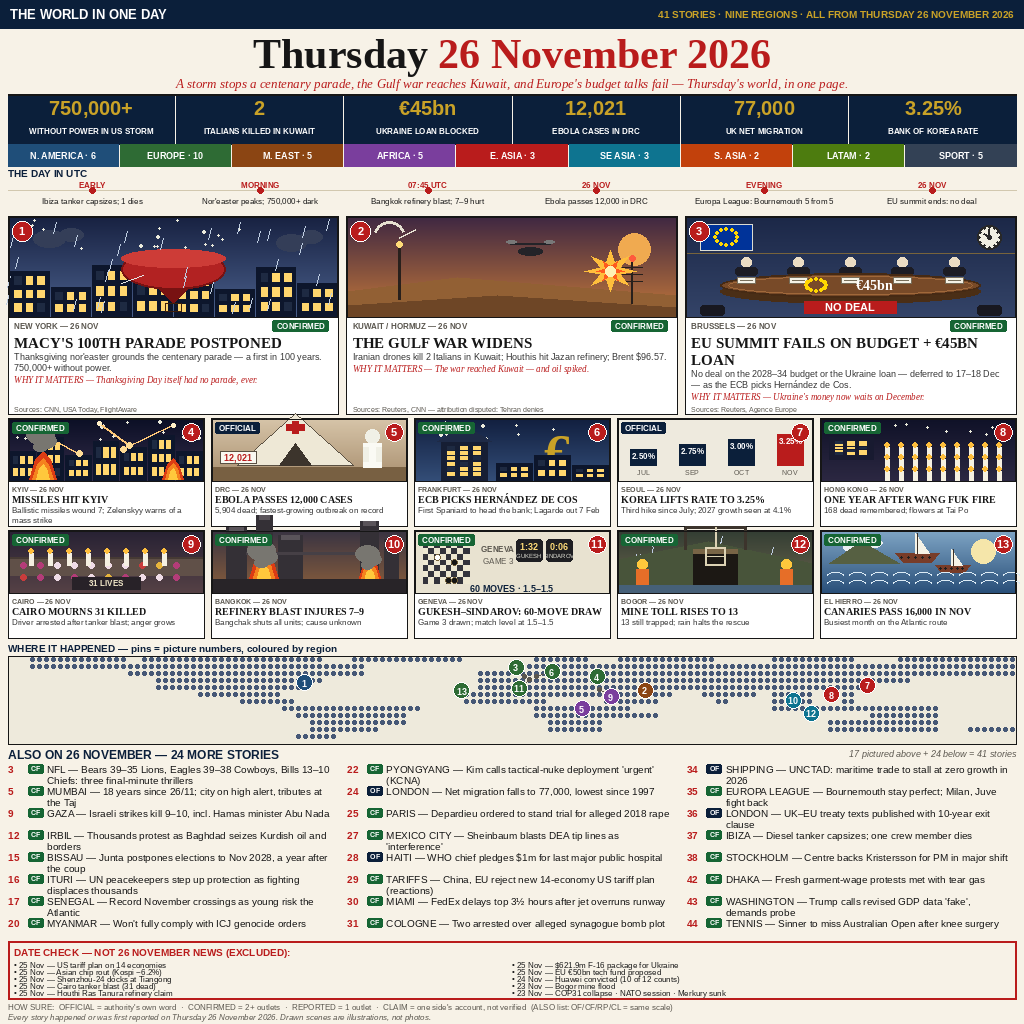
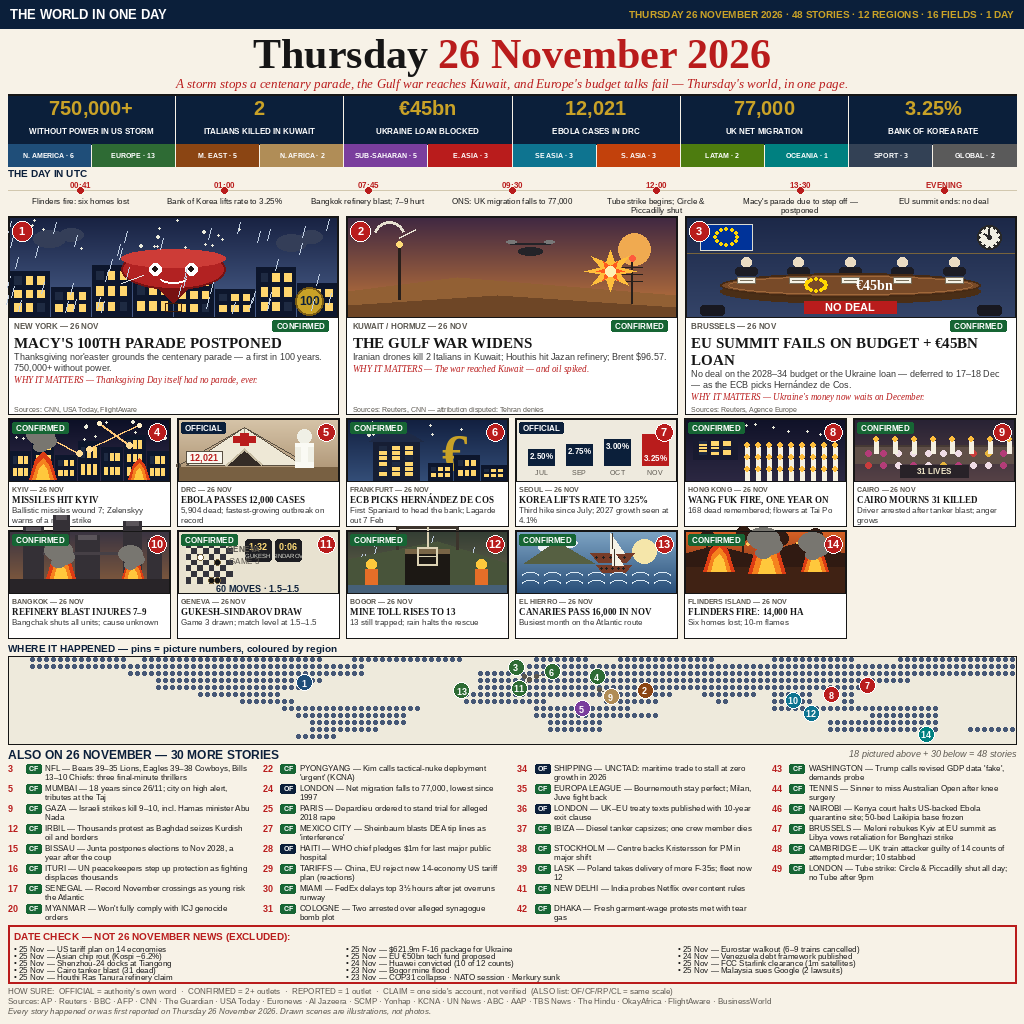
v3: 48 stories, 12 regions, 16 fields, 6 real UTC times, 14 pictured scenes

diff --git a/frontpage26_v2.py b/frontpage26_v2.py
@@ -1,6 +1,9 @@
 # frontpage26_v2.py — THE WORLD IN ONE DAY, Thursday 26 November 2026
 # Fresh rebuild from zero (v2). Written 100% fresh from dossier.md +
 # dossier-add.md + v2-spec.md. No previous builder was read.
+# v3 edits (2026-11-27): 48 stories / 12 regions / 16 fields, 6 real UTC
+# times, 14th pictured scene (Flinders), balloon face, Ebola tent fix,
+# 20-outlet footer, DATE CHECK 14 traps — per v3-spec.md. v2 layout kept.
 # Draws a dense illustrated broadsheet front page, 1024x1024, Pillow only.
 import math, random
 from PIL import Image, ImageDraw, ImageFont
@@ -161,7 +164,8 @@ def scene_macys(d, box):
                         (x1 - 46, y0 + 26, 15), (x1 - 26, y0 + 20, 11)]:
         d.ellipse([cx - r, cy - r * 0.55, cx + r, cy + r * 0.55], fill=(52, 62, 88))
     skyline(d, (x0, y1 - 52, x1, y1), [46, 30, 52, 38, 44, 28, 50, 34], base_y=y1)
-    # big red balloon
+    # big red balloon — now with a face (the most memorable element of
+    # the top-4 entry's balloon character) and a bigger "100" badge
     bx, by = (x0 + x1) // 2, y0 + 52
     d.ellipse([bx - 52, by - 20, bx + 52, by + 20], fill=(178, 34, 34),
               outline=(120, 18, 18), width=2)
@@ -169,7 +173,16 @@ def scene_macys(d, box):
     d.polygon([(bx - 14, by + 20), (bx + 14, by + 20), (bx, by + 34)], fill=(120, 18, 18))
     d.rectangle([bx - 8, by + 34, bx + 8, by + 42], outline=(60, 30, 10), width=1)
     d.line([(bx - 30, by + 6), (bx - 52, by + 14)], fill=(230, 230, 230), width=1)
-    rain(d, (x0, y0, x1, y1), 30, seed=5)
+    # face: two eyes + smile on the balloon
+    for ex in [bx - 18, bx + 18]:
+        d.ellipse([ex - 6, by - 6, ex + 6, by + 6], fill=(255, 255, 255))
+        d.ellipse([ex - 2.5, by - 2.5, ex + 2.5, by + 2.5], fill=(30, 20, 20))
+    d.arc([bx - 14, by + 2, bx + 14, by + 14], 20, 160, fill=(255, 255, 255), width=2)
+    # gold "100" badge, bottom-right of the art
+    d.ellipse([x1 - 42, y1 - 30, x1 - 14, y1 - 2], fill=GOLD,
+              outline=(120, 90, 20), width=2)
+    d.text((x1 - 28, y1 - 16), "100", font=SANS_B(12), fill=NAVY, anchor="mm")
+    rain(d, (x0, y0, x1, y1), 44, seed=5)
 
 def scene_kuwait(d, box):
     """Desert dusk, radar + antenna, drone, explosion starburst. Hero 2."""
@@ -303,15 +316,24 @@ def scene_ebola(d, box):
     x0, y0, x1, y1 = box
     vgrad(d, (x0, y0, x1, y1), (214, 196, 168), (168, 142, 110))
     d.rectangle([x0, y1 - 14, x1, y1], fill=(120, 96, 66))
-    # tent
+    # tent — low and wide so it reads as a tent, not a pyramid (v3 fix
+    # round 2: apex lowered from -52 to -38, base kept at +/-58)
     tx, ty = (x0 + x1) // 2 - 14, y1 - 16
-    d.polygon([(tx - 58, ty), (tx, ty - 52), (tx + 58, ty)], fill=(238, 232, 214),
+    d.polygon([(tx - 58, ty), (tx, ty - 38), (tx + 58, ty)], fill=(238, 232, 214),
               outline=(90, 80, 66))
-    d.polygon([(tx - 58, ty), (tx, ty - 52), (tx + 58, ty)], outline=(90, 80, 66))
-    d.polygon([(tx - 16, ty), (tx, ty - 22), (tx + 16, ty)], fill=(60, 52, 44))
-    # red cross on tent
-    d.rectangle([tx - 3, ty - 44, tx + 3, ty - 32], fill=RED)
-    d.rectangle([tx - 9, ty - 41, tx + 9, ty - 35], fill=RED)
+    d.polygon([(tx - 58, ty), (tx, ty - 38), (tx + 58, ty)], outline=(90, 80, 66))
+    d.line([(tx, ty - 38), (tx, ty - 32)], fill=(150, 140, 120), width=1)
+    d.line([(tx, ty - 38), (tx - 66, ty)], fill=(90, 80, 66), width=1)
+    d.line([(tx, ty - 38), (tx + 66, ty)], fill=(90, 80, 66), width=1)
+    d.ellipse([tx - 68, ty - 2, tx - 64, ty + 2], fill=(90, 80, 66))
+    d.ellipse([tx + 64, ty - 2, tx + 68, ty + 2], fill=(90, 80, 66))
+    # open flap: dark doorway with a lighter rolled edge
+    d.polygon([(tx - 18, ty), (tx, ty - 16), (tx + 18, ty)], fill=(52, 44, 38))
+    d.line([(tx - 18, ty), (tx, ty - 16)], fill=(200, 190, 165), width=2)
+    d.line([(tx + 18, ty), (tx, ty - 16)], fill=(200, 190, 165), width=2)
+    # bigger red cross on the tent face, above the doorway
+    d.rectangle([tx - 4, ty - 32, tx + 4, ty - 20], fill=RED)
+    d.rectangle([tx - 11, ty - 29, tx + 11, ty - 23], fill=RED)
     # health worker (PPE)
     wx = x1 - 34
     d.ellipse([wx - 7, y1 - 52, wx + 7, y1 - 38], fill=(240, 240, 230))  # hood
@@ -353,8 +375,10 @@ def scene_korea(d, box):
     for (lab, v, h) in vals:
         col = RED if lab == "NOV" else NAVY
         d.rectangle([x, base - h, x + bw, base], fill=col)
-        # value label INSIDE the bar (white) so it can't hit the badge
-        d.text((x + bw / 2, base - h + 2), f"{v:.2f}%", font=SANS_B(8),
+        # value label INSIDE the bar (white) so it can't hit the badge;
+        # NOV's label sits lower — the top of its bar is under the scene badge
+        ly = base - 12 if lab == "NOV" else base - h + 2
+        d.text((x + bw / 2, ly), f"{v:.2f}%", font=SANS_B(8),
                fill=(255, 255, 255), anchor="ma")
         d.text((x + bw / 2, base + 3), lab, font=SANS(7), fill=GREY, anchor="ma")
         x += bw + gap
@@ -367,11 +391,12 @@ def scene_hk(d, box):
     # building silhouette
     d.rectangle([x0 + 8, y0 + 18, x0 + 52, y1 - 22], fill=(24, 26, 48))
     windows(d, x0 + 12, y0 + 22, 36, y1 - y0 - 48, 3, 5)
-    # candle rows (caption below already says 168 dead)
+    # candle rows (caption below already says 168 dead) — tighter spacing
+    # for the narrower v3 grid cell
     for r in range(3):
         yy = y1 - 34 + r * 12
         for c in range(9):
-            cx = x0 + 66 + c * 14
+            cx = x0 + 62 + c * 11
             d.rectangle([cx - 2, yy, cx + 2, yy + 9], fill=(245, 240, 225))
             d.ellipse([cx - 2.5, yy - 5, cx + 2.5, yy], fill=(255, 190, 60))
 
@@ -383,12 +408,12 @@ def scene_cairo(d, box):
     # wall
     d.rectangle([x0, y0 + 26, x1, y1 - 18], fill=(96, 80, 72))
     d.line([(x0, y0 + 26), (x1, y0 + 26)], fill=(70, 58, 52), width=2)
-    # flowers (small coloured dots in rows)
+    # flowers (small coloured dots in rows) — tighter spacing for v3 grid
     rnd = random.Random(99)
     for r in range(2):
         yy = y0 + 34 + r * 12
         for c in range(10):
-            cx = x0 + 14 + c * 17
+            cx = x0 + 14 + c * 15
             col = rnd.choice([(200, 60, 60), (240, 220, 230), (230, 180, 60),
                               (180, 60, 120)])
             d.ellipse([cx - 3, yy - 3, cx + 3, yy + 3], fill=col)
@@ -510,6 +535,33 @@ def scene_canary(d, box):
         for xx in range(x0 + 6, x1 - 10, 22):
             d.arc([xx, yy - 3, xx + 16, yy + 3], 180, 360, fill=(220, 235, 245), width=1)
 
+def scene_flinders(d, box):
+    """Landscape wildfire on Flinders Island: orange sky, tree line,
+    flame clusters + smoke columns. Scene 14 (v3)."""
+    x0, y0, x1, y1 = box
+    vgrad(d, (x0, y0, x1, y1), (214, 96, 36), (96, 34, 22))
+    # ember dots in the sky
+    rnd = random.Random(55)
+    for _ in range(10):
+        ex = rnd.uniform(x0 + 6, x1 - 6)
+        ey = rnd.uniform(y0 + 4, y0 + 26)
+        d.ellipse([ex - 1.5, ey - 1.5, ex + 1.5, ey + 1.5], fill=(255, 200, 90))
+    # dark tree line (eucalyptus silhouettes)
+    d.polygon([(x0, y1 - 26), (x0, y1 - 40), (x0 + 30, y1 - 48),
+               (x0 + 70, y1 - 38), (x0 + 110, y1 - 50), (x1, y1 - 40),
+               (x1, y1 - 26)], fill=(48, 26, 18))
+    for (tx, th) in [(x0 + 22, 12), (x0 + 58, 16), (x0 + 96, 11), (x1 - 30, 14)]:
+        d.line([(tx, y1 - 40), (tx, y1 - 40 - th)], fill=(48, 26, 18), width=2)
+        d.ellipse([tx - 7, y1 - 51 - th, tx + 7, y1 - 37 - th], fill=(48, 26, 18))
+    # ground + flame clusters
+    d.rectangle([x0, y1 - 26, x1, y1], fill=(64, 34, 20))
+    fire(d, x0 + 34, y1 - 22, 0.9)
+    fire(d, x0 + 82, y1 - 20, 1.1)
+    fire(d, x1 - 30, y1 - 22, 0.8)
+    # smoke columns kept short so they stay inside the art box
+    smoke(d, x0 + 82, y1 - 40, 0.8, 3)
+    smoke(d, x1 - 30, y1 - 38, 0.7, 3)
+
 # ---------------------------------------------------------------- map
 # Hand-built land bitmap: 24 rows, lat 84..-54 in 6 deg steps; each row is
 # a list of (first_col, last_col) land spans, cols = 5 deg lon steps
@@ -542,17 +594,18 @@ LAND_BITMAP = [
 ]
 REGION_COL = {
     "NA": (31, 78, 121), "EU": (46, 107, 52), "ME": (139, 69, 19),
-    "AF": (122, 62, 157), "EA": (185, 28, 28), "SEA": (14, 116, 144),
-    "SA": (194, 65, 12), "LAT": (77, 124, 15), "SP": (51, 65, 85),
+    "AF": (122, 62, 157), "NAF": (176, 141, 87), "EA": (185, 28, 28),
+    "SEA": (14, 116, 144), "SA": (194, 65, 12), "LAT": (77, 124, 15),
+    "SP": (51, 65, 85), "OC": (0, 128, 128), "GL": (90, 90, 90),
 }
 PINS = [  # (lon, lat, num, region, dx, dy) — dx/dy = display offset for legibility
     (-74, 40.7, 1, "NA", 0, 0), (47.5, 29.3, 2, "ME", 0, 0),
     (4.35, 50.85, 3, "EU", -8, -9), (30.5, 50.45, 4, "EU", 0, 0),
     (25, 0, 5, "AF", 0, 0), (8.68, 50.11, 6, "EU", 16, -5),
     (127, 37.5, 7, "EA", 0, 0), (114.2, 22.3, 8, "EA", 0, 0),
-    (31.2, 30.05, 9, "AF", 12, 7), (100.5, 13.75, 10, "SEA", 0, 0),
+    (31.2, 30.05, 9, "NAF", 12, 7), (100.5, 13.75, 10, "SEA", 0, 0),
     (6.14, 46.2, 11, "EU", -10, 9), (106.8, -6.6, 12, "SEA", 0, 0),
-    (-18, 28.3, 13, "EU", 0, 0),
+    (-18, 28.3, 13, "EU", 0, 0), (148, -40, 14, "OC", 0, 0),
 ]
 
 def draw_map(d, box):
@@ -618,7 +671,7 @@ SCENES = [
          head="KOREA LIFTS RATE TO 3.25%",
          sub="Third hike since July; 2027 growth seen at 4.1%"),
     dict(num=8, art=scene_hk, date="HONG KONG — 26 NOV", chip="CF",
-         head="ONE YEAR AFTER WANG FUK FIRE",
+         head="WANG FUK FIRE, ONE YEAR ON",
          sub="168 dead remembered; flowers at Tai Po"),
     dict(num=9, art=scene_cairo, date="CAIRO — 26 NOV", chip="CF",
          head="CAIRO MOURNS 31 KILLED",
@@ -627,7 +680,7 @@ SCENES = [
          head="REFINERY BLAST INJURES 7–9",
          sub="Bangchak shuts all units; cause unknown"),
     dict(num=11, art=scene_chess, date="GENEVA — 26 NOV", chip="CF",
-         head="GUKESH–SINDAROV: 60-MOVE DRAW",
+         head="GUKESH–SINDAROV DRAW",
          sub="Game 3 drawn; match level at 1.5–1.5"),
     dict(num=12, art=scene_bogor, date="BOGOR — 26 NOV", chip="CF",
          head="MINE TOLL RISES TO 13",
@@ -635,6 +688,9 @@ SCENES = [
     dict(num=13, art=scene_canary, date="EL HIERRO — 26 NOV", chip="CF",
          head="CANARIES PASS 16,000 IN NOV",
          sub="Busiest month on the Atlantic route"),
+    dict(num=14, art=scene_flinders, date="FLINDERS ISLAND — 26 NOV", chip="CF",
+         head="FLINDERS FIRE: 14,000 HA",
+         sub="Six homes lost; 10-m flames"),
 ]
 ALSO = [
     (3, "CF", "NFL — Bears 39–35 Lions, Eagles 39–38 Cowboys, Bills 13–10 Chiefs: three final-minute thrillers"),
@@ -658,9 +714,15 @@ ALSO = [
     (36, "OF", "LONDON — UK–EU treaty texts published with 10-year exit clause"),
     (37, "CF", "IBIZA — Diesel tanker capsizes; one crew member dies"),
     (38, "CF", "STOCKHOLM — Centre backs Kristersson for PM in major shift"),
+    (39, "CF", "LASK — Poland takes delivery of more F-35s; fleet now 12"),
+    (41, "CF", "NEW DELHI — India probes Netflix over content rules"),
     (42, "CF", "DHAKA — Fresh garment-wage protests met with tear gas"),
     (43, "CF", "WASHINGTON — Trump calls revised GDP data 'fake', demands probe"),
     (44, "CF", "TENNIS — Sinner to miss Australian Open after knee surgery"),
+    (46, "CF", "NAIROBI — Kenya court halts US-backed Ebola quarantine site; 50-bed Laikipia base frozen"),
+    (47, "CF", "BRUSSELS — Meloni rebukes Kyiv at EU summit as Libya vows retaliation for Benghazi strike"),
+    (48, "CF", "CAMBRIDGE — UK train attacker guilty of 14 counts of attempted murder; 10 stabbed"),
+    (49, "CF", "LONDON — Tube strike: Circle & Piccadilly shut all day; no Tube after 9pm"),
 ]
 DATECHECK = [
     "25 Nov — US tariff plan on 14 economies",
@@ -673,6 +735,10 @@ DATECHECK = [
     "24 Nov — Huawei convicted (10 of 12 counts)",
     "23 Nov — Bogor mine flood",
     "23 Nov — COP31 collapse · NATO session · Merkury sunk",
+    "25 Nov — Eurostar walkout (6–9 trains cancelled)",
+    "24 Nov — Venezuela debt framework published",
+    "25 Nov — FCC Starlink clearance (1m satellites)",
+    "25 Nov — Malaysia sues Google (2 lawsuits)",
 ]
 NUMBERS = [
     ("750,000+", "WITHOUT POWER IN US STORM"),
@@ -683,19 +749,21 @@ NUMBERS = [
     ("3.25%", "BANK OF KOREA RATE"),
 ]
 REGIONS = [
-    ("N. AMERICA", 6, (31, 78, 121)), ("EUROPE", 10, (46, 107, 52)),
-    ("M. EAST", 5, (139, 69, 19)), ("AFRICA", 5, (122, 62, 157)),
-    ("E. ASIA", 3, (185, 28, 28)), ("SE ASIA", 3, (14, 116, 144)),
-    ("S. ASIA", 2, (194, 65, 12)), ("LATAM", 2, (77, 124, 15)),
-    ("SPORT", 5, (51, 65, 85)),
+    ("N. AMERICA", 6, (31, 78, 121)), ("EUROPE", 13, (46, 107, 52)),
+    ("M. EAST", 5, (139, 69, 19)), ("N. AFRICA", 2, (176, 141, 87)),
+    ("SUB-SAHARAN", 5, (122, 62, 157)), ("E. ASIA", 3, (185, 28, 28)),
+    ("SE ASIA", 3, (14, 116, 144)), ("S. ASIA", 3, (194, 65, 12)),
+    ("LATAM", 2, (77, 124, 15)), ("OCEANIA", 1, (0, 128, 128)),
+    ("SPORT", 3, (51, 65, 85)), ("GLOBAL", 2, (90, 90, 90)),
 ]
 UTC_EVENTS = [
-    ("EARLY", "Ibiza tanker capsizes; 1 dies"),
-    ("MORNING", "Nor'easter peaks; 750,000+ dark"),
-    ("07:45 UTC", "Bangkok refinery blast; 7–9 hurt"),
-    ("26 NOV", "Ebola passes 12,000 in DRC"),
-    ("EVENING", "Europa League: Bournemouth 5 from 5"),
-    ("26 NOV", "EU summit ends: no deal"),
+    ("00:41", "Flinders fire: six homes lost"),
+    ("01:00", "Bank of Korea lifts rate to 3.25%"),
+    ("07:45", "Bangkok refinery blast; 7–9 hurt"),
+    ("09:30", "ONS: UK migration falls to 77,000"),
+    ("12:00", "Tube strike begins; Circle & Piccadilly shut"),
+    ("13:30", "Macy's parade due to step off — postponed"),
+    ("EVENING", "EU summit ends: no deal"),
 ]
 
 def build():
@@ -706,7 +774,7 @@ def build():
     d.rectangle([0, y, W, y + 28], fill=NAVY)
     d.text((10, y + 14), "THE WORLD IN ONE DAY", font=SANS_B(13),
            fill=(255, 255, 255), anchor="lm")
-    rt = "41 STORIES · NINE REGIONS · ALL FROM THURSDAY 26 NOVEMBER 2026"
+    rt = "THURSDAY 26 NOVEMBER 2026 · 48 STORIES · 12 REGIONS · 16 FIELDS · 1 DAY"
     d.text((W - 10, y + 14), rt, font=SANS_B(10), fill=GOLD, anchor="rm")
     y += 28
     # --- masthead (centred two-tone date)
@@ -731,18 +799,18 @@ def build():
             d.text((x + cw / 2, y + 30 + j * 9), ln, font=SANS_B(8),
                    fill=(255, 255, 255), anchor="ma")
     y += 48
-    # --- region bar
-    rw = (W - 16 - 8 * 2) / 9
+    # --- region bar (12 chips, v3)
+    rw = (W - 16 - 11 * 2) / 12
     for i, (name, n, col) in enumerate(REGIONS):
         x = 8 + i * (rw + 2)
         d.rectangle([x, y, x + rw, y + 22], fill=col)
-        d.text((x + rw / 2, y + 11), f"{name} · {n}", font=SANS_B(9),
+        d.text((x + rw / 2, y + 11), f"{name} · {n}", font=SANS_B(7),
                fill=(255, 255, 255), anchor="mm")
     y += 22
     # --- UTC strip (header row + timeline row)
     d.text((8, y + 1), "THE DAY IN UTC", font=SANS_B(10), fill=NAVY, anchor="la")
     d.line([(8, y + 24), (W - 8, y + 24)], fill=CREAM_LINE, width=1)
-    ew = (W - 16) / 6
+    ew = (W - 16) / 7
     for i, (t, ev) in enumerate(UTC_EVENTS):
         cx = 8 + ew * i + ew / 2
         d.ellipse([cx - 3, y + 21, cx + 3, y + 27], fill=RED)
@@ -776,10 +844,10 @@ def build():
             ty += 11
         d.text((x + 6, hy + 198 - 9), h["src"], font=SANS(7), fill=GREY, anchor="la")
     y = hy + 198 + 4
-    # --- scenes grid 5x2
-    sw, sh = 196, 108
+    # --- scenes grid 6x2 (v3: 11 scenes)
+    sw, sh = 162, 108
     for idx, s in enumerate(SCENES):
-        r, c = divmod(idx, 5)
+        r, c = divmod(idx, 6)
         x = 8 + c * (sw + 7)
         sy = y + r * (sh + 4)
         d.rectangle([x, sy, x + sw, sy + sh], fill=(255, 255, 255),
@@ -791,8 +859,8 @@ def build():
         ty = sy + 67
         d.text((x + 4, ty), s["date"], font=SANS_B(7), fill=GREY, anchor="la")
         ty += 9
-        for ln in wrap(d, s["head"], SERIF_B(10), sw - 8)[:1]:
-            d.text((x + 4, ty), ln, font=SERIF_B(10), fill=INK, anchor="la")
+        for ln in wrap(d, s["head"], SERIF_B(9), sw - 8)[:1]:
+            d.text((x + 4, ty), ln, font=SERIF_B(9), fill=INK, anchor="la")
             ty += 11
         for ln in wrap(d, s["sub"], SANS(8), sw - 8)[:2]:
             d.text((x + 4, ty), ln, font=SANS(8), fill=(50, 50, 50), anchor="la")
@@ -805,34 +873,37 @@ def build():
     draw_map(d, (8, y, W - 8, y + 88))
     y += 88 + 4
     # --- ALSO list
-    d.text((8, y), "ALSO ON 26 NOVEMBER — 24 MORE STORIES",
+    d.text((8, y), "ALSO ON 26 NOVEMBER — 30 MORE STORIES",
            font=SANS_B(12), fill=NAVY, anchor="la")
-    d.text((W - 8, y), "17 pictured above + 24 below = 41 stories",
+    d.text((W - 8, y), "18 pictured above + 30 below = 48 stories",
            font=SANS_I(9), fill=GREY, anchor="ra")
     y += 15
-    colw = (W - 16 - 2 * 10) / 3
+    colw = (W - 16 - 3 * 10) / 4
     for i, (n, code, text) in enumerate(ALSO):
         col, row = divmod(i, 8)
         x = 8 + col * (colw + 10)
-        ry = y + row * 22
-        d.text((x, ry), str(n), font=SANS_B(10), fill=RED, anchor="la")
-        mw = minichip(d, x + 20, ry + 1, code)
-        tx = x + 20 + mw + 4
-        lines = wrap(d, text, SANS(10), colw - (tx - x) - 2)[:2]
+        ry = y + row * 20
+        d.text((x, ry), str(n), font=SANS_B(9), fill=RED, anchor="la")
+        mw = minichip(d, x + 18, ry + 1, code)
+        tx = x + 18 + mw + 4
+        lines = wrap(d, text, SANS(8), colw - (tx - x) - 2)[:2]
         for j, ln in enumerate(lines):
-            d.text((tx, ry + j * 11), ln, font=SANS(10), fill=INK, anchor="la")
-    y += 8 * 22 + 2
+            d.text((tx, ry + j * 9.5), ln, font=SANS(8), fill=INK, anchor="la")
+    y += 8 * 20 + 2
     # --- date check
     d.rectangle([8, y, W - 8, y + 58], outline=RED, width=2)
     d.text((14, y + 5), "DATE CHECK — NOT 26 NOVEMBER NEWS (EXCLUDED):",
            font=SANS_B(10), fill=RED, anchor="la")
     for i, item in enumerate(DATECHECK):
         col, row = divmod(i, 5)
-        x = 14 + col * ((W - 28) / 2)
+        x = 14 + col * ((W - 28) / 3)
         d.text((x, y + 19 + row * 7), "• " + item, font=SANS(8), fill=INK, anchor="la")
     y += 58 + 3
     # --- footer
     d.text((8, y), "HOW SURE:  OFFICIAL = authority's own word  ·  CONFIRMED = 2+ outlets  ·  REPORTED = 1 outlet  ·  CLAIM = one side's account, not verified  (ALSO list: OF/CF/RP/CL = same scale)",
+           font=SANS(8), fill=GREY, anchor="la")
+    y += 10
+    d.text((8, y), "Sources: AP · Reuters · BBC · AFP · CNN · The Guardian · USA Today · Euronews · Al Jazeera · SCMP · Yonhap · KCNA · UN News · ABC · AAP · TBS News · The Hindu · OkayAfrica · FlightAware · BusinessWorld",
            font=SANS(8), fill=GREY, anchor="la")
     y += 10
     d.text((8, y), "Every story happened or was first reported on Thursday 26 November 2026. Drawn scenes are illustrations, not photos.",
